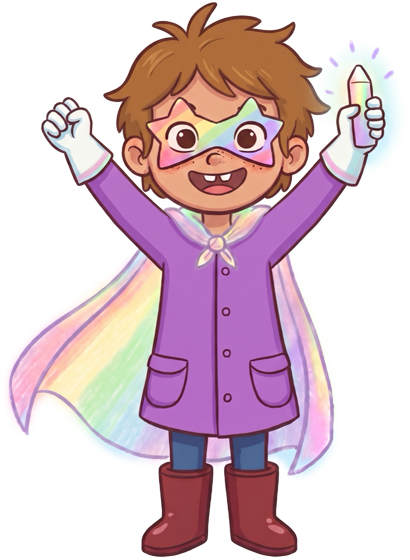
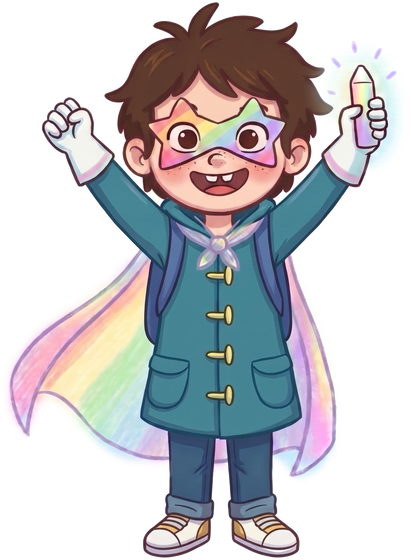
Lumina: Lino's new look

diff --git a/lumina/index.html b/lumina/index.html
@@ -372,7 +372,7 @@ img, video { max-width: 100%; display: block }
   <div class="heroes">
     <figure><img src="assets/lumina_cheer.png" alt="Lumina / Lumina" width="427" height="560" loading="lazy"><figcaption><b>Lina → Lumina</b><span lang="de">die Kreide-Heldin</span><span lang="en">the Chalk Hero</span></figcaption></figure>
     <div class="or"><h3><span lang="de">Lina oder Lino?</span><span lang="en">Lina or Lino?</span></h3><p><span lang="de">Ihr Kind wählt, wer die Geschichte erlebt: Lina, die zu Lumina wird, oder Lino, der zu Lumino wird. Dieselbe Geschichte, jede Figur mit eigener Stimme.</span><span lang="en">Your child chooses who lives the story: Lina, who becomes Lumina, or Lino, who becomes Lumino. The same story, each hero with their own voice.</span></p></div>
-    <figure><img src="assets/lumina_cheer__boy.png" alt="Lumino / Lumino" width="427" height="560" loading="lazy"><figcaption><b>Lino → Lumino</b><span lang="de">der Kreide-Held</span><span lang="en">the Chalk Hero</span></figcaption></figure>
+    <figure><img src="assets/lumina_cheer__boy.png" alt="Lumino" width="411" height="560" loading="lazy"><figcaption><b>Lino → Lumino</b><span lang="de">der Kreide-Held</span><span lang="en">the Chalk Hero</span></figcaption></figure>
   </div>
 </div></section>
 
